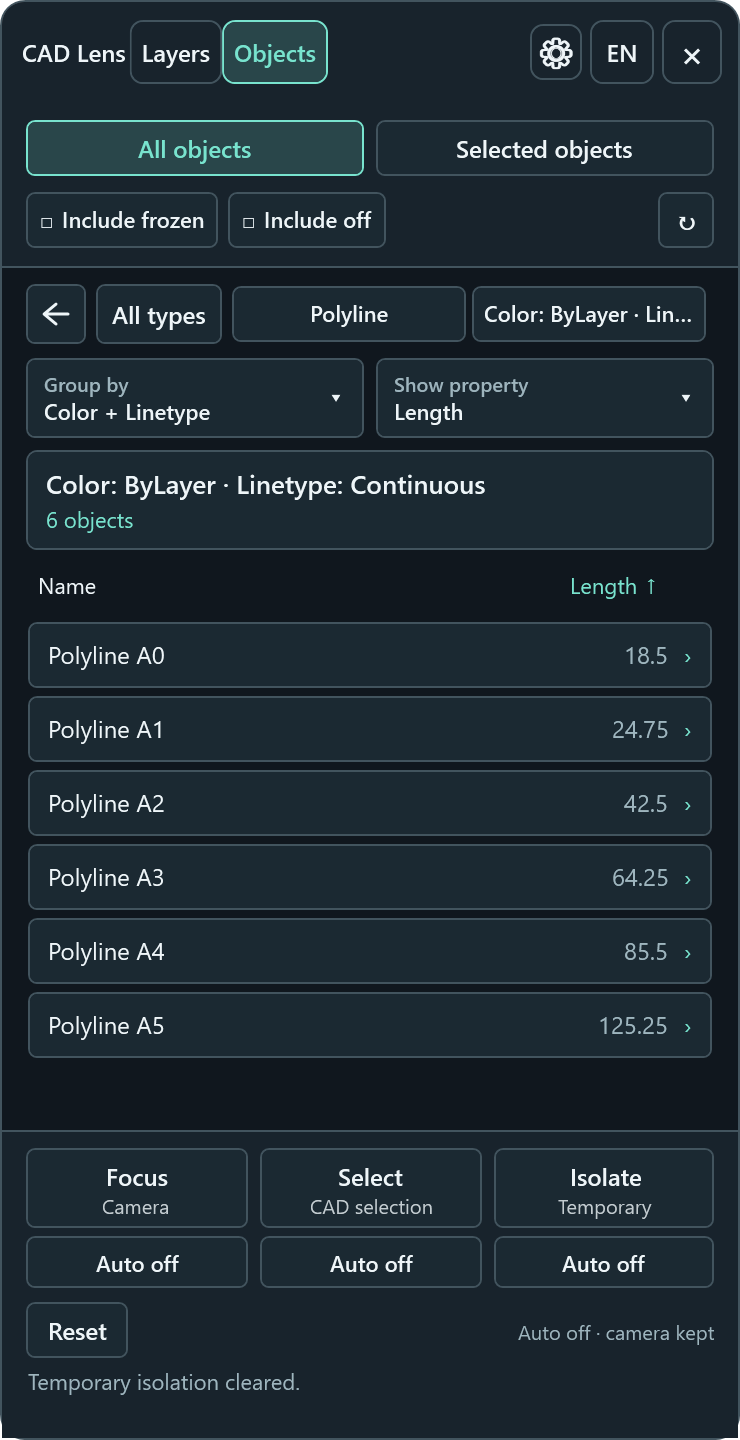
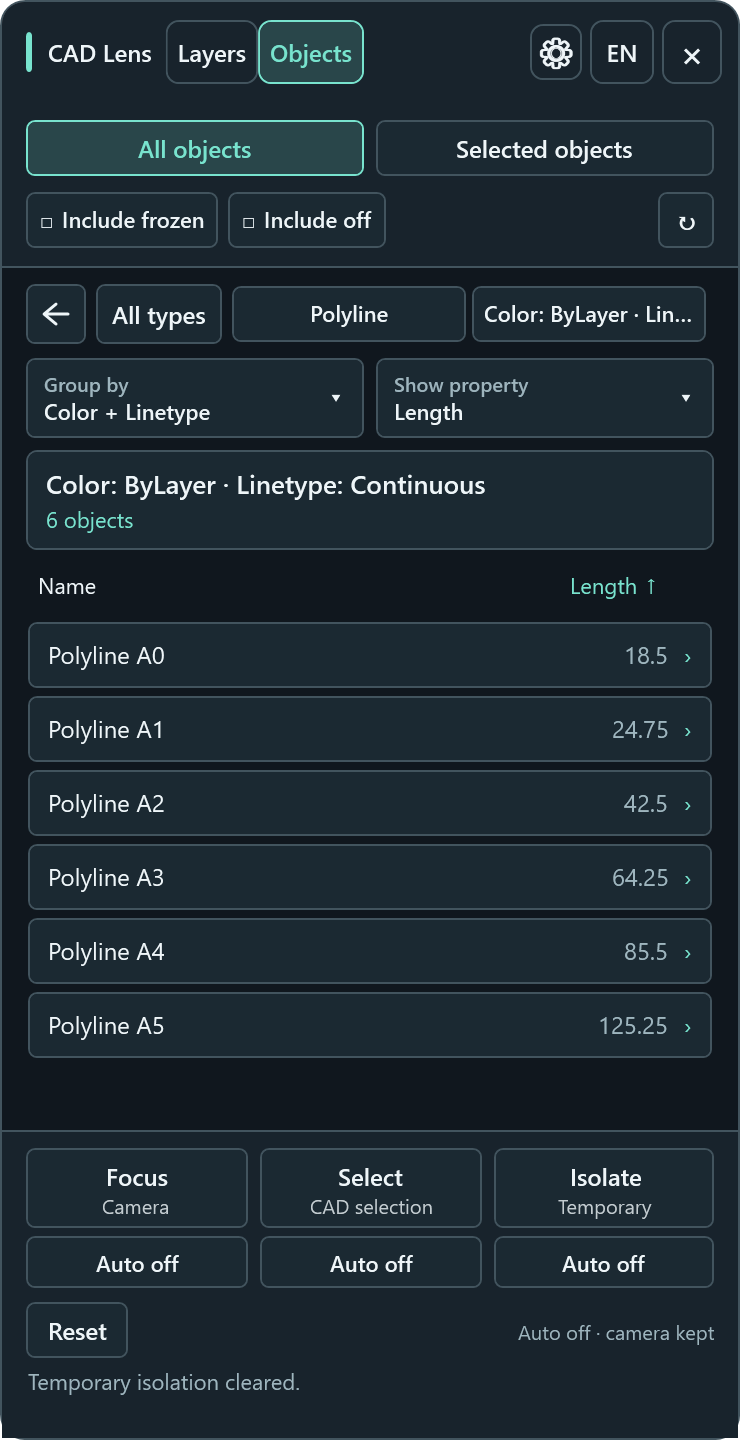
Restore the header accent and expand window dragging (#40)
* Restore the compact header accent and refresh the README preview

* Make unused header space draggable

---------

Changed region(s): [[0.0311, 0.0, 0.4973, 0.0625]]

diff --git a/src/CadLens.UI/Views/ExplorerWindow.xaml b/src/CadLens.UI/Views/ExplorerWindow.xaml
@@ -46,7 +46,7 @@
                 <Border.Background>
                     <DynamicResource ResourceKey="QuietHeader" />
                 </Border.Background>
-                <Grid Margin="8,0,8,0">
+                <Grid Margin="12,0,8,0">
                     <Grid.ColumnDefinitions>
                         <ColumnDefinition Width="Auto" />
                         <ColumnDefinition Width="*" />
@@ -55,8 +55,15 @@
                         <ColumnDefinition Width="Auto" />
                     </Grid.ColumnDefinitions>
                     <StackPanel
+                        Margin="0,0,5,0"
                         VerticalAlignment="Center"
                         Orientation="Horizontal">
+                        <Border
+                            Width="3"
+                            Height="20"
+                            Margin="0,0,6,0"
+                            Background="{DynamicResource QuietAccent}"
+                            CornerRadius="2" />
                         <ToggleButton
                             x:Name="AboutButton"
                             MinHeight="28"
@@ -233,8 +240,14 @@
                         MaxHeight="48"
                         VerticalAlignment="Center"
                         HorizontalScrollBarVisibility="Auto"
-                        VerticalScrollBarVisibility="Disabled"
-                        WindowChrome.IsHitTestVisibleInChrome="True">
+                        VerticalScrollBarVisibility="Disabled">
+                        <ScrollViewer.Resources>
+                            <Style
+                                BasedOn="{StaticResource {x:Type ScrollBar}}"
+                                TargetType="ScrollBar">
+                                <Setter Property="WindowChrome.IsHitTestVisibleInChrome" Value="True" />
+                            </Style>
+                        </ScrollViewer.Resources>
                         <ItemsControl VerticalAlignment="Center" ItemsSource="{Binding Lenses}">
                             <ItemsControl.ItemsPanel>
                                 <ItemsPanelTemplate>
@@ -253,7 +266,8 @@
                                         CommandParameter="{Binding}"
                                         Content="{local:Localize Binding={Binding Descriptor.Label}}"
                                         IsChecked="{Binding IsActive, Mode=OneWay}"
-                                        Style="{StaticResource QuietToggle}">
+                                        Style="{StaticResource QuietToggle}"
+                                        WindowChrome.IsHitTestVisibleInChrome="True">
                                         <ToggleButton.ToolTip>
                                             <ToolTip>
                                                 <StackPanel>

diff --git a/tests/CadLens.UI.Tests/WindowDraggingTests.cs b/tests/CadLens.UI.Tests/WindowDraggingTests.cs
@@ -1,0 +1,105 @@
+using System.Runtime.InteropServices;
+using System.Windows;
+using System.Windows.Controls;
+using System.Windows.Controls.Primitives;
+using System.Windows.Interop;
+using System.Windows.Threading;
+using CadLens.Lenses;
+using Xunit;
+
+namespace CadLens.UI.Tests;
+
+/// <summary>Blank header space remains draggable while header controls stay interactive.</summary>
+[Collection("Language changes")]
+public sealed class WindowDraggingTests
+{
+    private const int ClientArea = 1;
+    private const int CaptionArea = 2;
+    private const uint NonClientHitTest = 0x0084;
+
+    /// <summary>The lens viewport routes its empty space to the caption and its buttons to the client.</summary>
+    [Fact]
+    public void EmptyLensViewportIsDraggableWithoutDisablingHeaderButtons()
+    {
+        WpfTest.Run(() =>
+        {
+            var previousLanguage = UiText.Current.Preference;
+            using var file = new SettingsFile();
+            using var layers = new ObjectExplorerLens(new AppearanceTests.Actions(), DrawingGrouping.Layers);
+            using var objects = new ObjectExplorerLens(new AppearanceTests.Actions(), DrawingGrouping.ObjectTypes);
+            using var model = new ExplorerViewModel([layers, objects]);
+            var window = new ExplorerWindow(model, settings: file.Service) {ShowActivated = false};
+
+            try
+            {
+                UiText.Current.Select(LanguagePreference.English, persist: false);
+                window.Show();
+                window.Dispatcher.Invoke(() => { }, DispatcherPriority.ApplicationIdle);
+                var viewport = WpfTest.Descendants(window).OfType<ScrollViewer>().Single();
+                var buttons = WpfTest.Descendants(viewport).OfType<ToggleButton>().ToArray();
+                Assert.Equal(2, buttons.Length);
+                var lastButton = buttons[^1];
+                var buttonRight = lastButton.TranslatePoint(new Point(lastButton.ActualWidth, lastButton.ActualHeight / 2), window);
+                var viewportRight = viewport.TranslatePoint(new Point(viewport.ActualWidth, 0), window);
+                Assert.True(viewportRight.X - buttonRight.X > 4, "The compact header must have empty lens viewport space.");
+                var emptySpace = new Point((buttonRight.X + viewportRight.X) / 2, buttonRight.Y);
+
+                Assert.Equal(CaptionArea, HitTest(window, emptySpace));
+
+                foreach (var button in buttons)
+                    Assert.Equal(ClientArea, HitTest(window, button.TranslatePoint(new Point(button.ActualWidth / 2, button.ActualHeight / 2), window)));
+
+                var about = Assert.IsType<ToggleButton>(window.FindName("AboutButton"));
+                Assert.Equal(ClientArea, HitTest(window, about.TranslatePoint(new Point(about.ActualWidth / 2, about.ActualHeight / 2), window)));
+            }
+            finally
+            {
+                window.Close();
+                UiText.Current.Select(previousLanguage, persist: false);
+            }
+        });
+    }
+
+    /// <summary>Overflow navigation stays clickable when more lenses are registered than the header can fit.</summary>
+    [Fact]
+    public void OverflowScrollbarRemainsInTheClientArea()
+    {
+        WpfTest.Run(() =>
+        {
+            var previousLanguage = UiText.Current.Preference;
+            using var file = new SettingsFile();
+            using var layers = new ObjectExplorerLens(new AppearanceTests.Actions(), DrawingGrouping.Layers);
+            using var objects = new ObjectExplorerLens(new AppearanceTests.Actions(), DrawingGrouping.ObjectTypes);
+            var counter = new CounterLens(new CounterViewModel(new CounterService()));
+            using var model = new ExplorerViewModel([layers, objects, counter]);
+            var window = new ExplorerWindow(model, settings: file.Service) {ShowActivated = false};
+
+            try
+            {
+                UiText.Current.Select(LanguagePreference.English, persist: false);
+                window.Show();
+                window.Dispatcher.Invoke(() => { }, DispatcherPriority.ApplicationIdle);
+                var viewport = WpfTest.Descendants(window).OfType<ScrollViewer>().Single();
+                Assert.True(viewport.ExtentWidth > viewport.ViewportWidth);
+                var scrollbar = WpfTest.Descendants(viewport).OfType<ScrollBar>()
+                    .Single(candidate => candidate.Orientation == Orientation.Horizontal && candidate.IsVisible);
+                Assert.Equal(ClientArea, HitTest(window, scrollbar.TranslatePoint(new Point(scrollbar.ActualWidth / 2, scrollbar.ActualHeight / 2), window)));
+            }
+            finally
+            {
+                window.Close();
+                UiText.Current.Select(previousLanguage, persist: false);
+            }
+        });
+    }
+
+    private static nint HitTest(Window window, Point point)
+    {
+        var screen = window.PointToScreen(point);
+        var coordinates = ((int) screen.Y & 0xffff) << 16 | ((int) screen.X & 0xffff);
+        return SendMessage(new WindowInteropHelper(window).Handle, NonClientHitTest, nint.Zero, coordinates);
+    }
+
+    [DllImport("user32.dll", EntryPoint = "SendMessageW")]
+    private static extern nint SendMessage(nint window, uint message, nint parameter, nint coordinates);
+}

diff --git a/README.md b/README.md
@@ -28,7 +28,8 @@ focus on, and temporarily isolate objects without changing stored DWG geometry o
 - **Preferences:** choose English or Russian, customize appearance, and keep separate settings for each lens.
 
 The panel opens as a compact bar over the drawing. Activate a lens to explore; collapsing or closing
-it clears temporary isolation and restores the ordinary display.
+it clears temporary isolation and restores the ordinary display. Drag the empty space in the header
+to move the panel.
 
 The current bundle targets **64-bit Windows, AutoCAD 2025–2026, and Civil 3D 2025–2026**, using .NET 8
 and WPF. These are the intended hosts; native compatibility needs verification in each host/version.
@@ -81,8 +82,6 @@ when selected again. A Windows display-language change usually also requires Win
 ## Use the Layers lens
 
 A new `CADLENS` session opens as a compact bar with both lenses inactive. Press Layers to read the active drawing space. Browse layers, object types, and objects with the list, breadcrumbs, Back, and Previous/Next. Use Refresh after drawing edits. Press Layers again to collapse the panel; reopen it to restore valid navigation, inclusion filters, and Auto settings without moving the camera. Pending or failed cleanup appears in the compact status tooltip and can delay reactivation. Running `CADLENS` again brings the existing panel forward.
-
-![Layers lens with sample drawing layers and object counts](docs/images/layers-preview.png)
 
 ### Object scope
 
